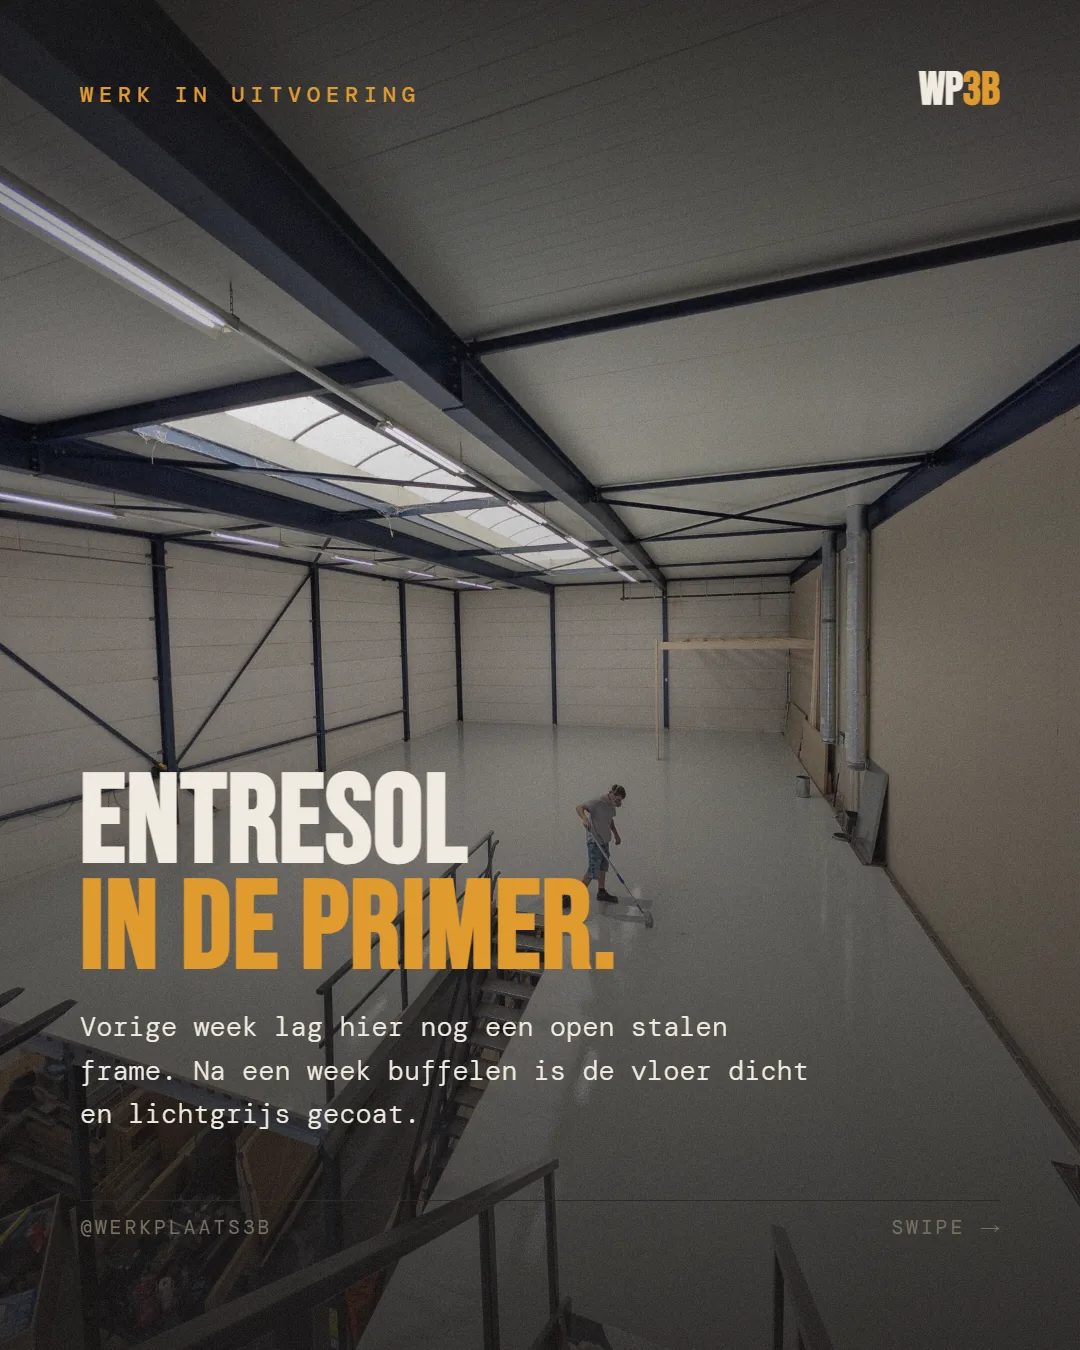
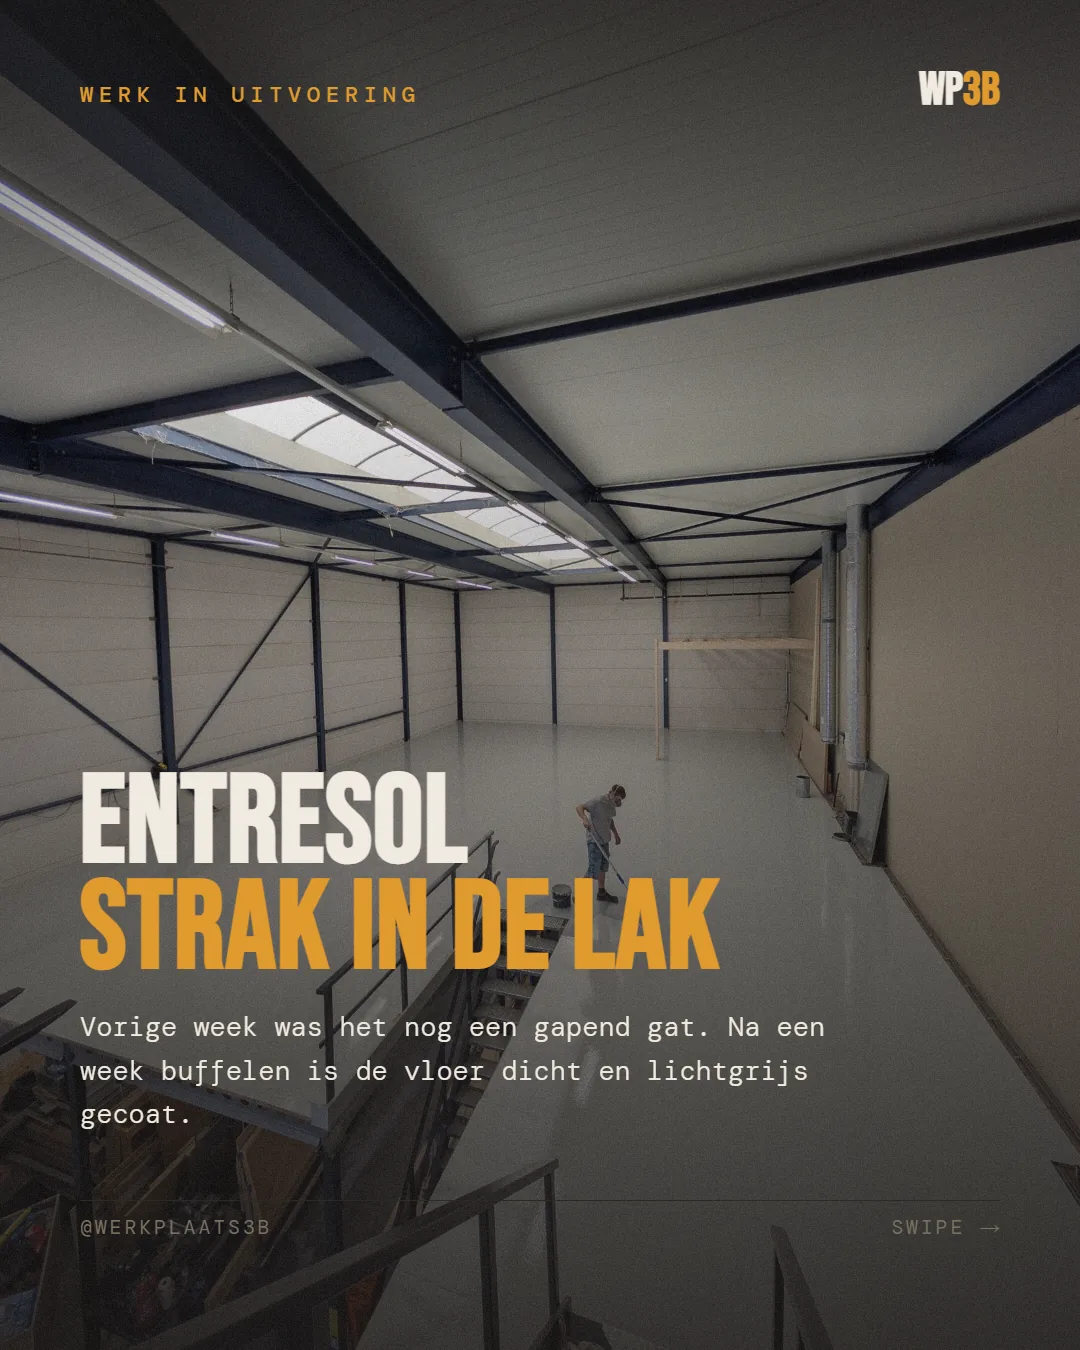
instagram: p19 cover aangepast (Entresol strak in de lak)

diff --git a/docs/instagram-feed.js b/docs/instagram-feed.js
@@ -8,7 +8,7 @@
 const INSTAGRAM_FEED = [
   {
     "src": "photos/instagram/p19.webp",
-    "alt": "Foto van de entresol in de werkplaats: iemand rolt primer over de nieuwe vloer. Kop: Entresol in de primer. Eerste van vijf slides over de bouw van de entresol.",
+    "alt": "Foto van de entresol in de werkplaats: iemand rolt de lichtgrijze coating over de nieuwe vloer. Kop: Entresol strak in de lak. Eerste van vijf slides over de bouw van de entresol.",
     "caption": "Entresol in de primer.\n\nVorige week lag hier nog een open stalen frame, met de hal eronder in het zicht. Plaat voor plaat is het dichtgelegd, en nu zit de hele vloer in de primer.\n\nBenieuwd hoe het verder gaat? Plan een afspraak in via werkplaats3b.nl\n\n#werkplaats3b #meubelmaker #interieurbouw #vakmanschap #maasland #westland #zzp #houtbewerking #atelier #bedrijfsruimte",
     "datum": "2026-09-24"
   },
